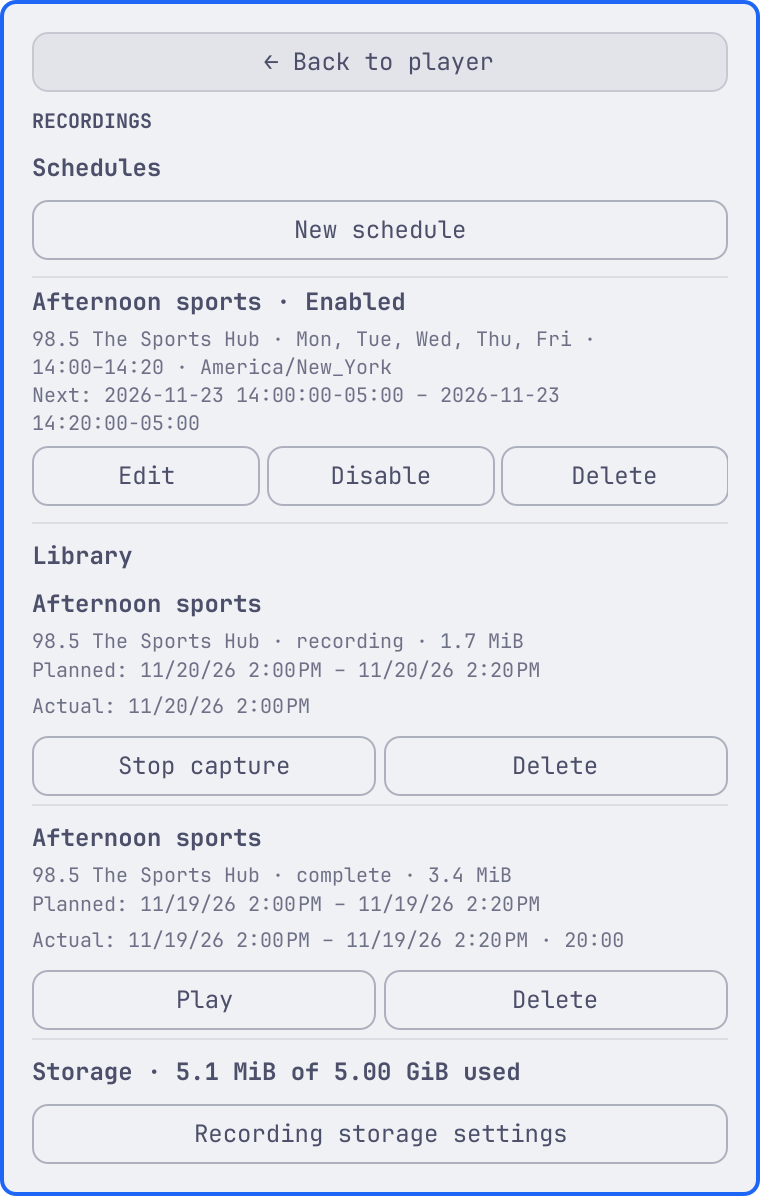
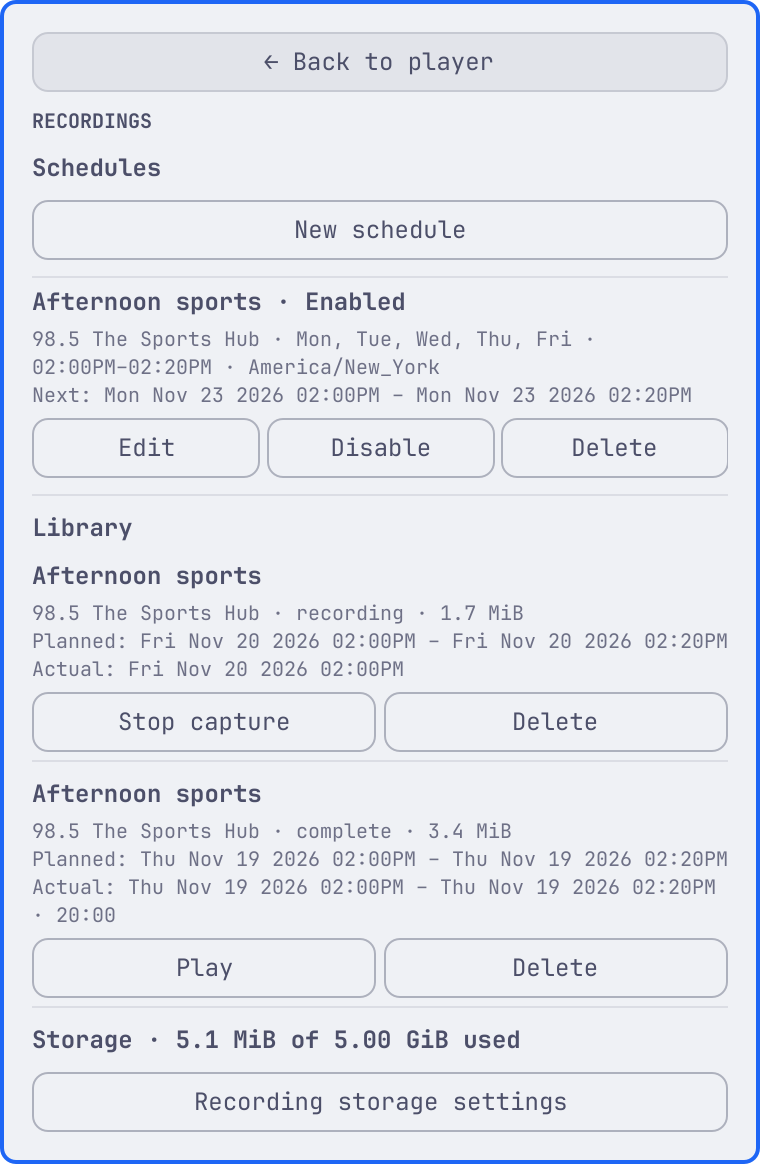
Use consistent readable dates throughout recordings

diff --git a/RecordingsView.qml b/RecordingsView.qml
@@ -134,10 +134,32 @@ Column {
     const old = snapshot.settings || {}
     submit(radio.recordingSettings(storageRevision, {folder: folderField.text.trim(), storageCapBytes: Math.round(Number(capField.text) * 1073741824), freeSpaceReserveBytes: old.freeSpaceReserveBytes, concurrency: old.concurrency}), "settings")
   }
-  function dateText(value) {
+  function timeText(hours, minutes) {
+    const locale = Qt.locale(Commons.I18n.formatLocale)
+    return String(hours % 12 || 12).padStart(2, "0") + ":" + String(minutes).padStart(2, "0")
+      + (hours < 12 ? locale.amText : locale.pmText).toUpperCase()
+  }
+  function scheduleTimeText(value) {
+    const parts = /^(\d{2}):(\d{2})$/.exec(String(value || ""))
+    return parts ? timeText(Number(parts[1]), Number(parts[2])) : String(value || "")
+  }
+  function dateText(value, sourceTime) {
     if (!value) return ""
-    const d = new Date(value)
-    return isNaN(d.getTime()) ? String(value) : d.toLocaleString(Qt.locale(Commons.I18n.formatLocale), Locale.ShortFormat)
+    let d = new Date(value)
+    if (isNaN(d.getTime())) return String(value)
+    // Schedule occurrences already carry their saved timezone's UTC offset.
+    // Read their wall-clock fields in UTC to avoid converting them to the
+    // machine timezone (or applying the machine's different DST rules).
+    if (sourceTime) d = new Date(String(value).replace(/(?:Z|[+-]\d{2}:\d{2})$/, "Z"))
+    const day = sourceTime ? d.getUTCDay() : d.getDay()
+    const month = sourceTime ? d.getUTCMonth() : d.getMonth()
+    const date = sourceTime ? d.getUTCDate() : d.getDate()
+    const year = sourceTime ? d.getUTCFullYear() : d.getFullYear()
+    const hours = sourceTime ? d.getUTCHours() : d.getHours()
+    const minutes = sourceTime ? d.getUTCMinutes() : d.getMinutes()
+    const locale = Qt.locale(Commons.I18n.formatLocale)
+    return locale.dayName(day, Locale.ShortFormat) + " " + locale.monthName(month, Locale.ShortFormat)
+      + " " + date + " " + year + " " + timeText(hours, minutes)
   }
   function sizeText(n) {
     const bytes = Math.max(0, Number(n) || 0)
@@ -152,7 +174,7 @@ Column {
       if (!root.previewSerial || root.radio.schedulePreviewSerial !== root.previewSerial || root.previewKey !== root.formKey) return
       root.previewSerial = 0
       const p = root.radio.schedulePreview || {}
-      root.previewText = root.radio.schedulePreviewError || (p.nextStart ? "Next: " + p.nextStart.replace("T", " ") + " – " + p.nextEnd.replace("T", " ") + " · " + p.timezone : "This schedule is disabled.")
+      root.previewText = root.radio.schedulePreviewError || (p.nextStart ? "Next: " + root.dateText(p.nextStart, true) + " – " + root.dateText(p.nextEnd, true) + " · " + p.timezone : "This schedule is disabled.")
     }
     function onRecordingMutationSerialChanged() {
       if (!root.pendingSerial || root.radio.recordingMutationSerial !== root.pendingSerial) return
@@ -219,7 +241,7 @@ Column {
     Column { required property var rowData; readonly property var modelData: rowData; width: root.width; spacing: Style.space(4)
       Ui.PanelSeparator { width: parent.width }
       Text { width: parent.width; text: (parent.modelData.label || parent.modelData.stationName) + (parent.modelData.enabled ? " · Enabled" : " · Disabled"); textFormat: Text.PlainText; color: root.foreground; font.family: Style.font.family; font.pixelSize: Style.font.body; font.bold: true; wrapMode: Text.Wrap }
-      Text { width: parent.width; text: parent.modelData.stationName + " · " + (parent.modelData.weekdays || []).map(function(d) { return ["Sun", "Mon", "Tue", "Wed", "Thu", "Fri", "Sat"][d] }).join(", ") + " · " + parent.modelData.startTime + "–" + parent.modelData.endTime + " · " + parent.modelData.timezone + "\n" + (parent.modelData.nextStart ? "Next: " + parent.modelData.nextStart.replace("T", " ") + " – " + (parent.modelData.nextEnd || "").replace("T", " ") : "No upcoming occurrence"); textFormat: Text.PlainText; color: root.foreground; opacity: 0.8; font.family: Style.font.family; font.pixelSize: Style.font.caption; wrapMode: Text.Wrap }
+      Text { width: parent.width; text: parent.modelData.stationName + " · " + (parent.modelData.weekdays || []).map(function(d) { return ["Sun", "Mon", "Tue", "Wed", "Thu", "Fri", "Sat"][d] }).join(", ") + " · " + root.scheduleTimeText(parent.modelData.startTime) + "–" + root.scheduleTimeText(parent.modelData.endTime) + " · " + parent.modelData.timezone + "\n" + (parent.modelData.nextStart ? "Next: " + root.dateText(parent.modelData.nextStart, true) + " – " + root.dateText(parent.modelData.nextEnd, true) : "No upcoming occurrence"); textFormat: Text.PlainText; color: root.foreground; opacity: 0.8; font.family: Style.font.family; font.pixelSize: Style.font.caption; wrapMode: Text.Wrap }
       Row { width: parent.width; spacing: Style.space(4)
         Ui.Button { width: (parent.width-parent.spacing*2)/3; text: "Edit"; foreground: root.foreground; bordered: true; focusable: true; enabled: root.available && !root.pending; onActiveFocusChanged: if (activeFocus) root.ensureVisible(this); onClicked: root.beginEdit(parent.parent.modelData) }
         Ui.Button { width: (parent.width-parent.spacing*2)/3; text: parent.parent.modelData.enabled ? "Disable" : "Enable"; foreground: root.foreground; bordered: true; focusable: true; enabled: root.available && !root.pending; onActiveFocusChanged: if (activeFocus) root.ensureVisible(this); onClicked: { const s = parent.parent.modelData; root.submit(root.radio.upsertSchedule(root.snapshot.revision, {id:s.id, stationId:s.stationId, label:s.label, weekdays:s.weekdays, startTime:s.startTime, endTime:s.endTime, timezone:s.timezone, enabled:!s.enabled}), "toggle") } }

diff --git a/tools/qml-smoke/recordings.qml b/tools/qml-smoke/recordings.qml
@@ -22,6 +22,13 @@ ShellRoot {
           panel.open(); panel.radio.acquire({})
           tryVerify(function() { return panel.radio.ready && panel.radio.recordings.available && panel.radio.stations.length > 0 }, 5000)
           wait(300)
+          compare(panel.testView.dateText(new Date(2026, 10, 20, 14, 30).toISOString()), "Fri Nov 20 2026 02:30PM")
+          compare(panel.testView.dateText("2026-11-20T14:30:00+09:00", true), "Fri Nov 20 2026 02:30PM")
+          compare(panel.testView.dateText("2026-11-20T00:05:00+14:00", true), "Fri Nov 20 2026 12:05AM")
+          compare(panel.testView.dateText("2026-11-20T12:00:00-05:00", true), "Fri Nov 20 2026 12:00PM")
+          compare(panel.testView.dateText("2026-03-08T02:30:00+09:00", true), "Sun Mar 8 2026 02:30AM")
+          compare(panel.testView.scheduleTimeText("23:59"), "11:59PM")
+          compare(panel.testView.dateText(""), "")
           verify(panel.testRecordingsButton.visible, "navigation absent")
           compare(panel.radio.stationId, "")
           verify(!panel.radio.hasStation && !panel.radio.wanted)
@@ -78,6 +85,7 @@ ShellRoot {
           var revisionBeforePreview = panel.radio.recordings.revision
           panel.testView.previewNext()
           tryVerify(function() { return panel.testView.previewSerial === 0 && panel.testView.previewText.indexOf("Next:") === 0 }, 5000)
+          verify(!/\d{4}-\d{2}-\d{2}T?/.test(panel.testView.previewText), "Preview still shows an ISO timestamp")
           compare(panel.radio.recordings.revision, revisionBeforePreview)
           panel.testView.testStart.text = "00:01"
           compare(panel.testView.previewText, "")

diff --git a/README.md b/README.md
@@ -252,6 +252,9 @@ live**. Missing files become available again when their retained folder returns.
 Audio quality and exact broadcast boundaries depend on the source; connection
 startup, broadcaster buffering and network interruptions can affect the segment.
 
+Dates use a consistent format such as **Fri Nov 20 2026 02:30PM**. Library dates
+use local time; upcoming schedule times and previews use the schedule's timezone.
+
 Open **Settings → Recording storage**, or the storage controls in Recordings, to
 choose a folder and total library cap. Defaults:
 
